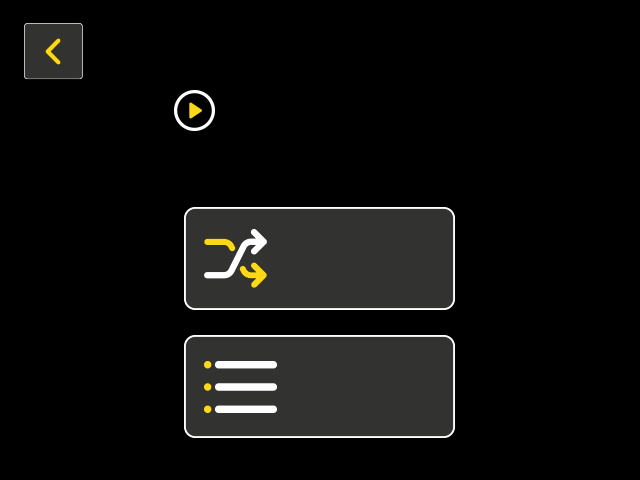
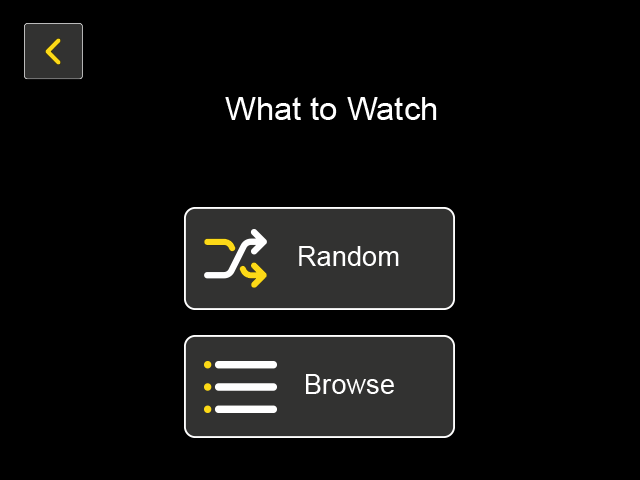
Update RaspberryPiTV play menu assets and labels

Changed region(s): [[0.25, 0.1875, 0.6875, 0.2812], [0.4688, 0.7812, 0.625, 0.8438], [0.4688, 0.5, 0.625, 0.5625]]

diff --git a/RaspberryPiTV/menu_app.py b/RaspberryPiTV/menu_app.py
@@ -24,6 +24,8 @@ MAIN_SCREEN_PATH = os.path.join(MENU_DIR, "Main_Menu.png")
 MORE_OPTIONS_PATH = os.path.join(MENU_DIR, "Screen_MoreOptions.png")
 POWEROFF_PATH = os.path.join(MENU_DIR, "PowerOff_Menu.png")
 PLAYMENU_PATH = os.path.join(MENU_DIR, "PlayMenu.png")
+PLAY_EXIT_NORMAL_PATH = os.path.join(MENU_DIR, "button_exit_normal.png")
+PLAY_EXIT_PRESSED_PATH = os.path.join(MENU_DIR, "button_exit_pressed.png")
 LOADING_VIDEO_PATH = os.path.join(MENU_DIR, "Loading_Video.png")
 INTRO_VIDEO_PATH = os.path.join(MENU_DIR, "video_intro.mp4")
 TOUCH_DEVICE_PATH = "/dev/input/event0"
@@ -279,11 +281,15 @@ class RaspberryPiTVMenu:
             "play": self.prepare_screen_assets(
                 PLAYMENU_PATH,
                 {
-                    "exit": os.path.join(MENU_DIR, "PlayMenu_ButtonExit_Pressed.png"),
                     "random": os.path.join(MENU_DIR, "PlayMenu_ButtonRandom_Pressed.png"),
                     "browse": os.path.join(MENU_DIR, "PlayMenu_ButtonBrowse_Pressed.png"),
                 },
             ),
+        }
+        play_exit_rect = self.get_play_button_rects()["exit"]
+        self.play_exit_assets = {
+            "default": self.prepare_button_asset(PLAY_EXIT_NORMAL_PATH, play_exit_rect),
+            "pressed": self.prepare_button_asset(PLAY_EXIT_PRESSED_PATH, play_exit_rect),
         }
         self.qr_asset = None
         self.wifi_networks = []
@@ -324,6 +330,12 @@ class RaspberryPiTVMenu:
             "default": self.prepare_asset(default_path),
             "pressed": {button_id: self.prepare_asset(path) for button_id, path in pressed_paths.items()},
         }
+
+    def prepare_button_asset(self, path, rect):
+        image = load_image(path)
+        if image is None:
+            return None
+        return fit_image(image, rect.size)
 
     def setup_touch_input(self):
         if InputDevice is None:
@@ -404,7 +416,7 @@ class RaspberryPiTVMenu:
             [("1", "1"), ("2", "2"), ("3", "3"), ("4", "4"), ("5", "5"), ("6", "6"), ("7", "7"), ("8", "8"), ("9", "9"), ("0", "0")],
             [(char, char) for char in letters[0]],
             [(char, char) for char in letters[1]] + [("<-", "BACKSPACE")],
-            [(char, char) for char in letters[2]] + [(".", "."), ("aA" if self.wifi_keyboard_upper else "Aa", "TOGGLE_CASE"), ("CLR", "CLEAR")],
+            [(char, char) for char in letters[2]] + [(".", "."), ("Aa" if self.wifi_keyboard_upper else "aA", "TOGGLE_CASE"), ("CLR", "CLEAR")],
         ]
 
     def get_keyboard_key_at(self, pos):
@@ -1110,19 +1122,22 @@ class RaspberryPiTVMenu:
 
     def draw_play(self):
         asset_pack = self.assets["play"]
-        asset = asset_pack["pressed"].get(self.pressed_button) if self.pressed_button else asset_pack["default"]
+        asset = asset_pack["pressed"].get(self.pressed_button) if self.pressed_button in {"random", "browse"} else asset_pack["default"]
         if asset is None:
             self.draw_missing("menu/PlayMenu.png")
             return
         self.screen.blit(asset, (0, 0))
 
+        exit_rect = self.get_play_button_rects()["exit"]
+        exit_asset = self.play_exit_assets["pressed"] if self.pressed_button == "exit" else self.play_exit_assets["default"]
+        if exit_asset is not None:
+            self.screen.blit(exit_asset, exit_rect)
+
         title = self.play_title_font.render("What to Watch", True, WHITE)
-        subtitle = self.small_font.render(self.play_status, True, GRAY)
         random_text = self.play_label_font.render("Random", True, WHITE)
         browse_text = self.play_label_font.render("Browse", True, WHITE)
 
         self.screen.blit(title, title.get_rect(center=(self.width // 2 + 6, 106)))
-        self.screen.blit(subtitle, subtitle.get_rect(center=(self.width // 2, 150)))
         self.screen.blit(random_text, random_text.get_rect(center=(372, 258)))
         self.screen.blit(browse_text, browse_text.get_rect(center=(372, 387)))
 